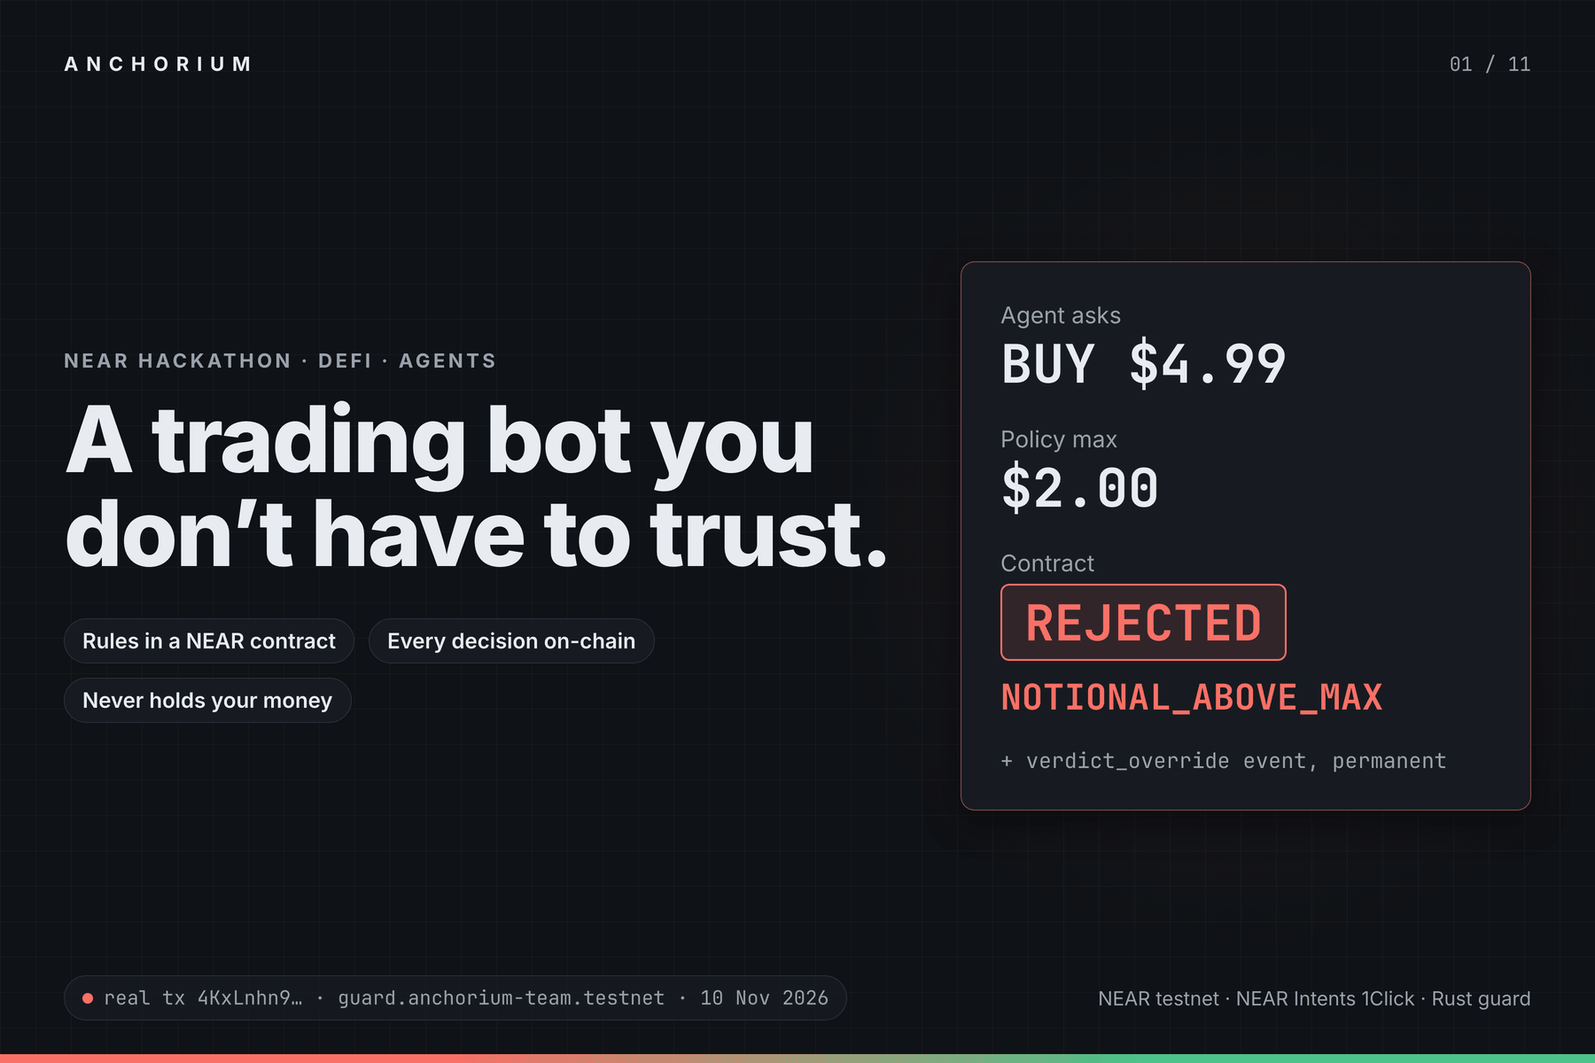
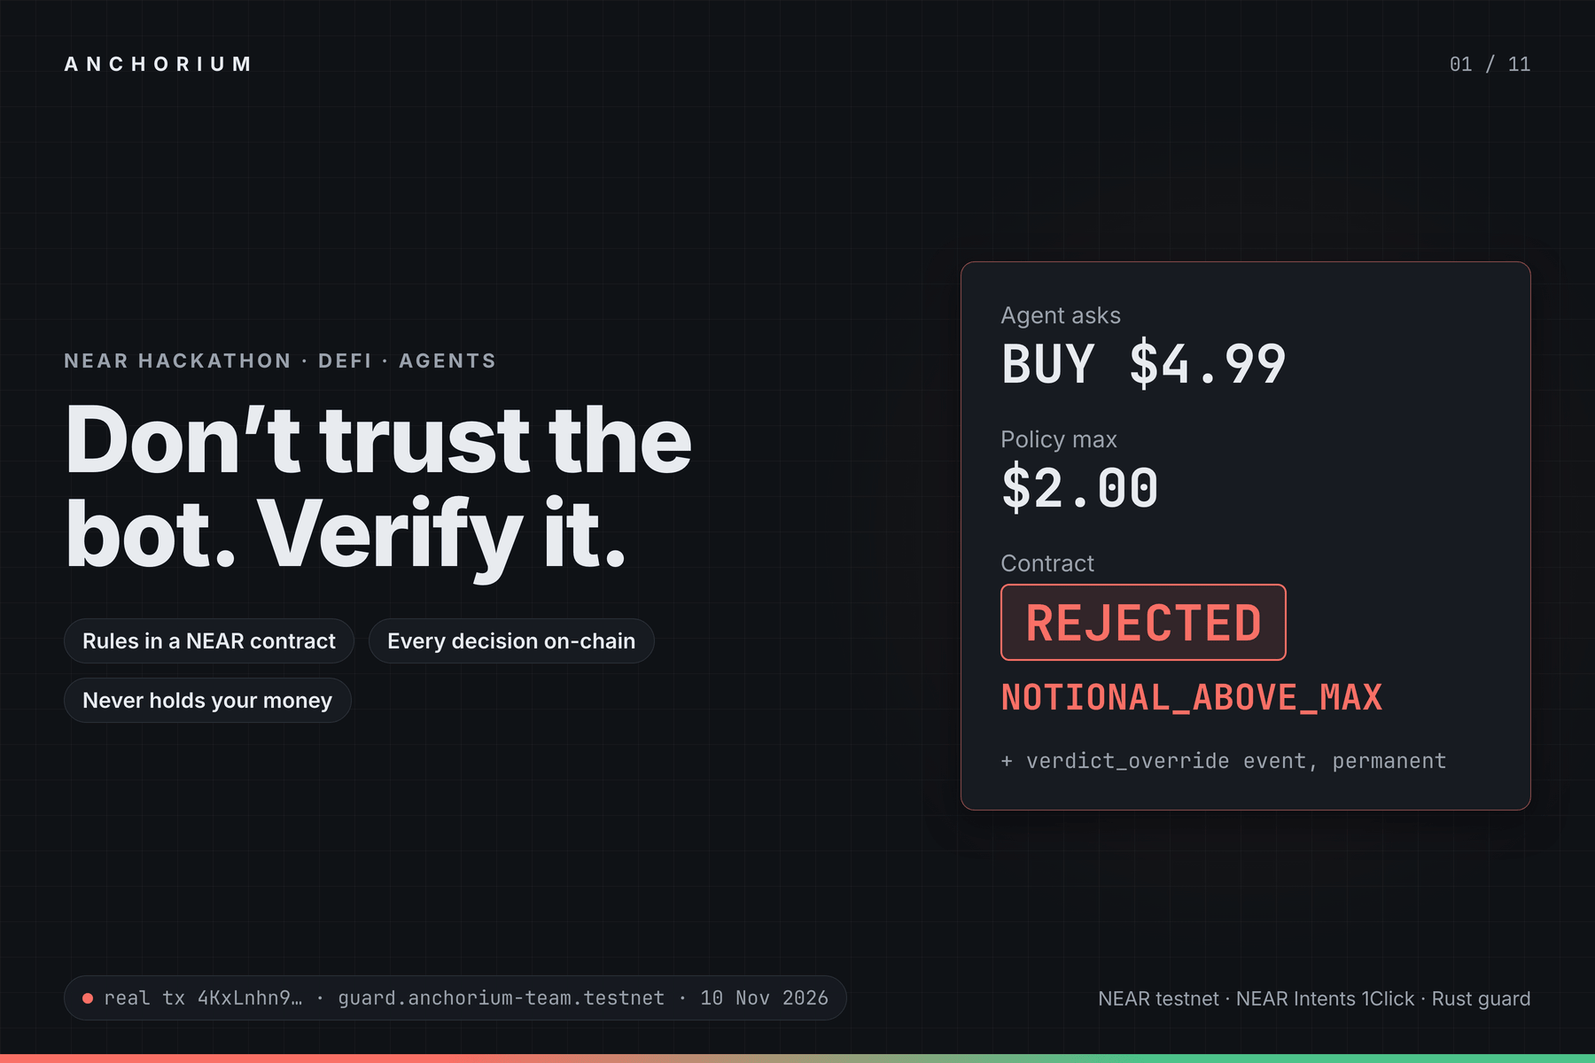
media: tagline "Don't trust the bot. Verify it.", new cold open, chapter cards and cross-fades
Tagline on the title and end cards, gallery 01, youtube.md, x_post.md and form.md (idea 1997/2000 chars).
The cold open is a hook card filled from the real tx 4KxLnhn9 and the on-chain policy, followed by the raw
make demo line and the RPC log. Full cut 2:49, X cut 0:57.

Changed region(s): [[0.0311, 0.37, 0.56, 0.555]]

diff --git a/submission/media/templates/v_hook.html b/submission/media/templates/v_hook.html
@@ -1,0 +1,37 @@
+<!doctype html>
+<!-- Cold open hook (6 s). Every value comes from the real tx (filled by web/record_cards.py from the RPC read):
+     {{SIDE}} {{ASK}} {{ALLOWED}} {{CAP}} {{REASON}} {{TX}} {{WHEN}}. Frame 1 already shows the red verdict. -->
+<html><head><meta charset="utf-8"><link rel="stylesheet" href="video.css">
+<style>
+  @keyframes stamp { from { transform: scale(1.22) rotate(-4deg); } 60% { transform: scale(.97) rotate(0); } to { transform: scale(1) rotate(0); } }
+  @keyframes pulse { 0%, 100% { box-shadow: 0 0 0 0 rgba(249,112,102,.0); } 50% { box-shadow: 0 0 0 14px rgba(249,112,102,.18); } }
+  .stamp { display: inline-block; animation: stamp 520ms cubic-bezier(.2,.8,.2,1) both, pulse 1.6s 0.6s ease-in-out 3; }
+  .row2 { display: flex; justify-content: space-between; align-items: baseline; gap: 24px; }
+  .k { font-size: 30px; color: var(--muted); }
+  .v { font-family: var(--mono); font-size: 62px; font-weight: 800; }
+</style></head>
+<body>
+  <div class="grid-bg"></div>
+  <div class="glow bad" style="left:1440px;top:560px"></div>
+  <header><div class="word">ANCHORIUM</div><div class="num">SIMULATED COMPROMISED AGENT · NEAR TESTNET</div></header>
+  <main style="flex-direction:row;align-items:center;gap:72px">
+    <div class="col" style="flex:1.15">
+      <div class="headline" style="font-size:112px">The bot tried to cheat.</div>
+      <div class="headline in" style="font-size:112px;animation-delay:1.1s">The contract said <span class="bad">no.</span></div>
+      <div class="sub in" style="font-size:40px;margin-top:30px;animation-delay:2.2s">On-chain. Permanent. Anyone can check.</div>
+    </div>
+    <div class="panel col" style="flex:.85;padding:48px 52px;gap:30px;border:2px solid color-mix(in srgb,var(--bad) 55%,var(--line))">
+      <div class="row2"><span class="k">Agent asks</span><span class="v">{{SIDE}} {{ASK}}</span></div>
+      <div class="row2"><span class="k">Agent claims</span><span class="v warn" style="font-size:44px">allowed: {{ALLOWED}}</span></div>
+      <div class="row2"><span class="k">Policy max</span><span class="v">{{CAP}}</span></div>
+      <div style="border-top:1px solid var(--line);padding-top:30px">
+        <div class="k">Contract verdict</div>
+        <div style="margin-top:14px"><span class="pill bad stamp" style="font-size:76px">REJECTED</span></div>
+        <div class="mono bad" style="font-size:42px;font-weight:800;margin-top:16px">{{REASON}}</div>
+      </div>
+    </div>
+  </main>
+  <footer class="fade" style="animation-delay:3.2s"><div class="chip"><i class="bad"></i>real tx {{TX}} · guard.anchorium-team.testnet · {{WHEN}}</div>
+    <div class="tags">verdict_override event, on-chain</div></footer>
+  <div class="rail bad-ok"></div>
+</body></html>

diff --git a/submission/media/templates/v_title.html b/submission/media/templates/v_title.html
@@ -6,7 +6,7 @@
   <header><div class="word">ANCHORIUM</div><div class="num">BUILT AT NEAR HACKATHON</div></header>
   <main style="justify-content:center;align-items:center;text-align:center">
     <div class="headline xl in" style="font-size:168px;animation-delay:.2s">Anchorium</div>
-    <div class="sub in" style="font-size:44px;animation-delay:.9s">A trading bot you don’t have to trust.</div>
+    <div class="sub in" style="font-size:44px;animation-delay:.9s">Don’t trust the bot. Verify it.</div>
     <div class="row" style="margin-top:90px;gap:28px">
       <div class="panel in" style="width:520px;padding:38px;text-align:left;animation-delay:4.2s"><div class="kicker">Problem 1</div>
         <div style="font-size:40px;font-weight:700;margin-top:12px"><span class="bad">✕</span> Bots hold your keys</div></div>

diff --git a/submission/media/templates/v_chapter.html b/submission/media/templates/v_chapter.html
@@ -1,0 +1,17 @@
+<!doctype html>
+<!-- Chapter card (1.8 s): ?k=<kicker>&t=<title>&r=<rail class>. Graphic only. -->
+<html><head><meta charset="utf-8"><link rel="stylesheet" href="video.css"></head>
+<body>
+  <div class="grid-bg"></div>
+  <main style="justify-content:center;align-items:flex-start">
+    <div class="kicker in" id="k" style="font-size:30px"></div>
+    <div class="headline in" id="t" style="font-size:136px;margin-top:18px;animation-delay:.15s"></div>
+  </main>
+  <div class="rail" id="r"></div>
+  <script>
+    const q = new URLSearchParams(location.search);
+    document.getElementById('k').textContent = q.get('k') || '';
+    document.getElementById('t').textContent = q.get('t') || '';
+    document.getElementById('r').classList.add(q.get('r') || 'ok');
+  </script>
+</body></html>

diff --git a/submission/media/templates/v_end.html b/submission/media/templates/v_end.html
@@ -5,7 +5,7 @@
   <div class="grid-bg"></div>
   <main style="justify-content:center;align-items:center;text-align:center">
     <div class="headline in" style="font-size:168px;animation-delay:.2s">Anchorium</div>
-    <div class="sub in" style="font-size:46px;animation-delay:.8s">A trading bot you don’t have to trust.</div>
+    <div class="sub in" style="font-size:46px;animation-delay:.8s">Don’t trust the bot. Verify it.</div>
     <div class="col fade" style="margin-top:80px;gap:20px;animation-delay:1.6s">
       <div class="mono" style="font-size:40px;font-weight:700">github.com/Adesh2204/anchorium-near</div>
       <div class="mono blue" style="font-size:40px;font-weight:700">guard.anchorium-team.testnet</div></div>

diff --git a/submission/media/templates/video.css b/submission/media/templates/video.css
@@ -2,7 +2,7 @@
 @import url("gallery.css");
 html, body { width: 1920px; height: 1080px; }
 main { left: 96px; right: 96px; top: 150px; bottom: 120px; }
-header { left: 96px; right: 96px; }
+header, footer { left: 96px; right: 96px; }
 .rail { height: 10px; transform-origin: left center; animation: rail-draw 900ms cubic-bezier(.2,.7,.2,1) both; }
 @keyframes rail-draw { from { transform: scaleX(0); } to { transform: scaleX(1); } }
 @keyframes rise { from { opacity: 0; transform: translateY(26px); } to { opacity: 1; transform: none; } }

diff --git a/submission/media/web/assemble.py b/submission/media/web/assemble.py
@@ -116,17 +116,19 @@ def build_segment(s: Seg, page) -> Path:
 
 MEDIA_GUARD = 'guard.anchorium-media-19428.testnet'
 SEGMENTS = [
-    # 1 cold open (starts on the red verdict: YouTube may use frame 1 as the thumbnail)
-    Seg('s1a_cold', 'still', '01_cold_open_end.png', 4.5, label='make demo · demo.anchorium-team.testnet (keyless)',
-        dot='bad', boxes=[(770, 624, 280, 38, 'bad', 0)], zoom=(1.5, 1.8, (700, 645)),
-        caps=[(0, 4.5, 'A simulated compromised agent asks for $4.99, 2.5x its $2.00 cap, and claims it is allowed.')]),
-    Seg('s1b_overruled', 'still', 'gallery/04_overruled.png', 6.5, fit='still32', dot='bad',
+    # 1 cold open: the hook card (frame 1 = the red verdict, filled from the real tx), then the raw proof
+    Seg('s0_hook', 'card', 'v_hook.mp4', 6.0),
+    Seg('s1a_cold', 'still', '01_cold_open_end.png', 3.5, label='make demo · demo.anchorium-team.testnet (keyless)',
+        dot='bad', boxes=[(770, 624, 280, 38, 'bad', 0)], zoom=(1.45, 1.75, (700, 645)),
+        caps=[(0, 3.5, 'The real output: check_trade on the NEAR testnet guard.')]),
+    Seg('s1b_overruled', 'still', 'gallery/04_overruled.png', 4.5, fit='still32', dot='bad',
         label='NEAR testnet RPC · real tx 4KxLnhn9… · 10 Nov 2026', zoom=(1.0, 1.25, (900, 860)),
-        caps=[(0, 6.5, 'The NEAR contract says no, and journals it on-chain with a verdict_override event.')]),
+        caps=[(0, 4.5, 'The real transaction: rejected, and flagged with a verdict_override event.')]),
     # 2 problem, 3 how it works
     Seg('s2_title', 'card', 'v_title.mp4', 15.0),
     Seg('s3_arch', 'card', 'v_arch.mp4', 20.0),
     # 4 a full cycle on-chain (fresh media guard)
+    Seg('c_cycle', 'card', 'ch_cycle.mp4', 1.8),
     Seg('s4a_cycle', 'clip', '04_cycle.mp4', 16.4, start=2.2, speed=2.0, badge='⏩ 2×', dot='blue',
         label=f'make demo-onchain · fresh guard {MEDIA_GUARD}',
         caps=[(0, 6, 'A brand-new guard deployed for this video. The agent must ask it before every trade.'),
@@ -140,6 +142,7 @@ SEGMENTS = [
         caps=[(0, 7, 'The dashboard reads every decision straight from the contract.'),
               (7, 14, 'Signal, guard verdict, quote, where the funds are, and the outcome.')]),
     # 5 safety
+    Seg('c_safety', 'card', 'ch_safety.mp4', 1.8),
     Seg('s5a_keys', 'clip', '05a_keys.mp4', 6.5, start=0.0, speed=2.0, badge='⏩ 2×', dot='ok',
         label='keyless RPC · view_access_key_list agent.anchorium-team.testnet',
         caps=[(0, 6.5, "The bot's only key: a function-call key for one contract and two journal methods.")]),
@@ -159,11 +162,13 @@ SEGMENTS = [
         boxes=[(92, 100, 1110, 292, 'blue', 0), (40, 508, 1350, 36, 'ok', 0.3)], zoom=(1.1, 1.25, (720, 320)),
         caps=[(0, 3, 'Proven by a sandbox test on a local NEAR node.')]),
     # 6 honest money
+    Seg('c_money', 'card', 'ch_money.mp4', 1.8),
     Seg('s6_money', 'still', 'gallery/09_honest_money.png', 14.0, fit='still32', dot='warn',
         label='PAPER · real 1Click quotes, simulated fill', zoom=(1.0, 1.12, (900, 640)),
         caps=[(0, 7, 'Every fee, the gas and a 31.2% tax reserve are counted before anything is called a profit.'),
               (7, 14, 'Wins and losses are both shown. These are paper trades, and they are labelled paper.')]),
     # 7 verify it yourself (fresh clone)
+    Seg('c_verify', 'card', 'ch_verify.mp4', 1.8),
     Seg('s7a_clone', 'clip', '07_verify.mp4', 13.75, start=0.0, speed=4.0, badge='⏩ 4×', dot='ok',
         label='fresh git clone from GitHub · no keys, no funds',
         caps=[(0, 13.75, "Don't trust us either: clone it and run two commands. No keys, no funds.")]),
@@ -176,29 +181,41 @@ SEGMENTS = [
     # 8 end card
     Seg('s8_end', 'card', 'v_end.mp4', 10.0),
 ]
-CUT_60 = ['s1a_cold', 's1b_overruled', 's3_arch_12', 's4a_cycle', 's4b_cycle_hold', 's8_end']
+CUT_60 = ['s0_hook', 's1a_cold', 's1b_overruled', 's3_arch_12', 's4a_cycle', 's4b_cycle_hold', 's8_end']
+XFADE = 0.3  # cross-fade between every two segments
 
 
-def concat(names: list[str], out: Path) -> float:
-    lst = SEG / f'{out.stem}.txt'
-    lst.write_text(''.join(f"file '{SEG / n}.mp4'\n" for n in names))
-    ff('-f', 'concat', '-safe', '0', '-i', str(lst), '-f', 'lavfi', '-i', 'anullsrc=r=48000:cl=stereo',
-       '-map', '0:v', '-map', '1:a', '-c:v', 'libx264', '-preset', 'veryfast', '-crf', '20', '-pix_fmt', 'yuv420p',
-       '-r', str(FPS), '-c:a', 'aac', '-b:a', '192k', '-shortest', '-movflags', '+faststart', str(out))
-    return float(subprocess.run(['ffprobe', '-v', 'error', '-show_entries', 'format=duration', '-of', 'csv=p=0', str(out)],
-                                capture_output=True, text=True).stdout)
+def probe(path: Path) -> float:
+    return float(subprocess.run(['ffprobe', '-v', 'error', '-show_entries', 'format=duration', '-of', 'csv=p=0',
+                                 str(path)], capture_output=True, text=True).stdout)
 
 
-def srt(segs: list[Seg], out: Path) -> None:
+def concat(names: list[str], out: Path) -> tuple[float, list[float]]:
+    """Joins the segments with XFADE-second cross-fades; returns the duration and each segment's start time."""
+    files = [SEG / f'{n}.mp4' for n in names]
+    lens = [probe(f) for f in files]
+    starts, chain, last, acc = [0.0], [], '0:v', lens[0]
+    for k in range(1, len(files)):
+        off = acc - XFADE
+        starts.append(off)
+        chain.append(f'[{last}][{k}:v]xfade=transition=fade:duration={XFADE}:offset={off:.3f}[x{k}]')
+        last, acc = f'x{k}', off + lens[k]
+    args = [a for f in files for a in ('-i', str(f))]
+    ff(*args, '-f', 'lavfi', '-i', 'anullsrc=r=48000:cl=stereo', '-filter_complex', ';'.join(chain) + f';[{last}]format=yuv420p[v]',
+       '-map', '[v]', '-map', f'{len(files)}:a', '-c:v', 'libx264', '-preset', 'veryfast', '-crf', '20', '-r', str(FPS),
+       '-c:a', 'aac', '-b:a', '192k', '-shortest', '-movflags', '+faststart', str(out))
+    return probe(out), starts
+
+
+def srt(segs: list[Seg], starts: list[float], out: Path) -> None:
     def ts(t: float) -> str:
         ms = int(round(t * 1000))
         return f'{ms // 3600000:02d}:{ms // 60000 % 60:02d}:{ms // 1000 % 60:02d},{ms % 1000:03d}'
-    lines, t, n = [], 0.0, 1
-    for s in segs:
+    lines, n = [], 1
+    for s, t in zip(segs, starts):
         for t0, t1, text in s.caps:
             lines.append(f'{n}\n{ts(t + t0)} --> {ts(t + t1)}\n{text}\n')
             n += 1
-        t += s.dur
     out.write_text('\n'.join(lines))
 
 
@@ -215,8 +232,9 @@ if __name__ == '__main__':
             print(f'segment {s.name}: {s.dur:.2f} s', flush=True)
         b.close()
     ff('-i', str(SEG / 's3_arch.mp4'), '-t', '12', '-c', 'copy', str(SEG / 's3_arch_12.mp4'))
-    full = concat([s.name for s in SEGMENTS], OUT / 'anchorium_demo_full.mp4')
-    short = concat(CUT_60, OUT / 'anchorium_demo_60s.mp4')
-    srt(SEGMENTS, OUT / 'captions.srt')
+    full, starts = concat([s.name for s in SEGMENTS], OUT / 'anchorium_demo_full.mp4')
+    short, _ = concat(CUT_60, OUT / 'anchorium_demo_60s.mp4')
+    srt(SEGMENTS, starts, OUT / 'captions.srt')
+    (OUT / 'chapters.txt').write_text(''.join(f'{int(t // 60)}:{int(t % 60):02d} {s.name}\n' for s, t in zip(SEGMENTS, starts)))
     print(f'full: {full:.2f} s · 60s cut: {short:.2f} s')
     assert full <= 180 and short <= 60, 'length limit exceeded'

diff --git a/submission/media/web/record_cards.py b/submission/media/web/record_cards.py
@@ -1,7 +1,7 @@
 """Records the animated video cards and the dashboard scroll with Playwright (1920x1080), then converts each to a
 30 fps H.264 clip in submission/media/raw/clips/. Run from the repo root with the media venv:
 
-    submission/media/.venv/bin/python submission/media/web/record_cards.py [v_title v_arch v_end dashboard]
+    submission/media/.venv/bin/python submission/media/web/record_cards.py [v_hook v_title v_arch v_end ch_* dashboard]
 
 The dashboard scene needs a dashboard serving on :8010 (`.venv/bin/python -m uvicorn dashboard.app:app --port 8010`).
 """
@@ -22,7 +22,29 @@ RAW = MEDIA / 'raw'
 CLIPS = RAW / 'clips'
 BUILD = RAW / 'build'
 SIZE = {'width': 1920, 'height': 1080}
-CARDS = {'v_title': 15.5, 'v_arch': 20.5, 'v_end': 10.5}
+CARDS = {'v_hook': 6.5, 'v_title': 15.5, 'v_arch': 20.5, 'v_end': 10.5}
+CHAPTERS = {'ch_cycle': ('Live on NEAR testnet', 'A full cycle, on-chain.', 'ok'),
+            'ch_safety': ('Safety lives in the contract', 'Three safety proofs.', 'bad'),
+            'ch_money': ('Paper trades, labelled paper', 'Honest money.', 'warn'),
+            'ch_verify': ('No keys. No funds.', 'Verify it yourself.', 'ok')}
+CHAPTER_DUR = 1.8
+
+
+def hook_html() -> str:
+    """The hook card, filled only from the real tx 4KxLnhn9 (RPC read) and the on-chain policy (make -s status)."""
+    sys.path.insert(0, str(Path(__file__).parent))
+    import render as R  # noqa: PLC0415
+    t, args, h, at = R.overruled(False)
+    pol = R.status(False)['policy']
+    reason = next(R.json.loads(lg[11:])['data'][0]['contract_reason'] for lg in R.tx_logs(t) if '"verdict_override"' in lg)
+    fill = {'SIDE': args['side'], 'ASK': R.usd(args['notional_usd_cents']), 'ALLOWED': str(args['agent_allowed']).lower(),
+            'CAP': R.usd(pol['max_notional_per_trade_usd_cents']), 'REASON': reason, 'TX': R.short(h),
+            'WHEN': f'{at:%d %b %Y %H:%M} UTC'}
+    src = (TPL / 'v_hook.html').read_text()
+    for k, v in fill.items():
+        src = src.replace('{{' + k + '}}', R.E(v))
+    assert '{{' not in src
+    return src
 
 
 def to_mp4(webm: Path, out: Path, start: float, dur: float) -> None:
@@ -74,11 +96,20 @@ if __name__ == '__main__':
     BUILD.mkdir(parents=True, exist_ok=True)
     for f in ('gallery.css', 'video.css'):
         shutil.copy(TPL / f, BUILD / f)
-    targets = sys.argv[1:] or [*CARDS, 'dashboard']
+    targets = sys.argv[1:] or [*CARDS, *CHAPTERS, 'dashboard']
     with sync_playwright() as p:
         for t in targets:
             if t == 'dashboard':
                 record(p, 'dashboard', 'http://127.0.0.1:8010/', 15.9, dashboard)
+            elif t in CHAPTERS:
+                import urllib.parse  # noqa: PLC0415
+                shutil.copy(TPL / 'v_chapter.html', BUILD / 'v_chapter.html')
+                k, title, rail = CHAPTERS[t]
+                q = urllib.parse.urlencode({'k': k, 't': title, 'r': rail})
+                record(p, t, (BUILD / 'v_chapter.html').as_uri() + '?' + q, CHAPTER_DUR)
+            elif t == 'v_hook':
+                (BUILD / 'v_hook.html').write_text(hook_html())
+                record(p, t, (BUILD / 'v_hook.html').as_uri(), CARDS[t])
             else:
                 shutil.copy(TPL / f'{t}.html', BUILD / f'{t}.html')
                 record(p, t, (BUILD / f'{t}.html').as_uri(), CARDS[t])

diff --git a/submission/media/web/render.py b/submission/media/web/render.py
@@ -240,7 +240,7 @@ def g01(rc: bool) -> None:
     <div class="row" style="flex:1;align-items:center;gap:56px">
       <div class="col" style="width:calc(7 * var(--col) + 6 * 24px)">
         <div class="kicker">NEAR HACKATHON · DEFI · AGENTS</div>
-        <div class="headline xl" style="margin-top:22px">A trading bot you don’t have to trust.</div>
+        <div class="headline xl" style="margin-top:22px">Don’t trust the bot. Verify it.</div>
         <div class="row b" style="margin-top:44px;flex-wrap:wrap;gap:16px">
           <span class="tag">Rules in a NEAR contract</span><span class="tag">Every decision on-chain</span>
           <span class="tag">Never holds your money</span></div>

diff --git a/submission/media/SHOTLIST.md b/submission/media/SHOTLIST.md
@@ -60,7 +60,7 @@ Brief: `submission/MEDIA_PROMPT.md` (updated version: 8 shots, 11 gallery images
 
 | # | File | Headline | Real source | Rail |
 |---|---|---|---|---|
-| 01 | `01_cover.png` | A trading bot you don't have to trust | The `NOTIONAL_ABOVE_MAX` line from `make demo` (2026-11-12) | red → green |
+| 01 | `01_cover.png` | Don't trust the bot. Verify it. | The `NOTIONAL_ABOVE_MAX` line from `make demo` (2026-11-12) | red → green |
 | 02 | `02_problem.png` | Today you just trust the bot | Graphic | muted |
 | 03 | `03_architecture.png` | The rules live on-chain, not in the bot | Graphic (still of shot 3) | green |
 | 04 | `04_overruled.png` | The bot tried to cheat. The contract said no. | Dashboard card #2 + NearBlocks tx `4KxLnhn9…` | red |
@@ -158,3 +158,11 @@ was isolated again for shot 4 (media store `var/agent-demo-onchain.media-19428.s
 last frame with highlight boxes (green allowed, red blocked, amber paper, blue code); gallery stills 04 and 09 get a
 slow zoom. Copies at the repo root: `Anchorium_Demo_Video.mp4`, `Anchorium_Demo_Video_60s.mp4` (untracked).
 `vo_script.txt` is kept for a future voiced version but is not used.
+
+### Revision 2026-11-12 evening (owner request)
+
+Tagline changed everywhere to "Don't trust the bot. Verify it." (title and end cards, gallery 01, youtube.md, x_post.md,
+form.md idea = 1997/2000 characters). New cold open: `templates/v_hook.html`, every value filled from the real tx
+4KxLnhn9 and the on-chain policy (BUY $4.99, allowed: true, $2.00 cap, NOTIONAL_ABOVE_MAX, 10 Nov 2026 16:27 UTC),
+then the raw `make demo` line and the RPC log as proof. Chapter cards (`templates/v_chapter.html`) and 0.3 s
+cross-fades. Full cut 2:49, X cut 0:57. `submission/MEDIA_PROMPT.md` (the owner's brief) is left as written.

diff --git a/submission/media/youtube.md b/submission/media/youtube.md
@@ -1,14 +1,16 @@
 # YouTube upload (humans upload; never automated)
 
-**Title:** Anchorium: the trading bot that can't break its own rules | NEAR HACKATHON
+**Title:** Anchorium: Don't trust the bot. Verify it. | NEAR HACKATHON
 
 **Visibility:** public or unlisted, no password.
 
 **Description:**
 
+Don't trust the bot. Verify it.
+
 Anchorium is an autonomous trading agent whose risk limits live in a NEAR smart contract. Before any trade it asks
 the contract, journals the decision on-chain, and settles spot swaps through NEAR Intents (1Click) into the user's
-own account. In this video a simulated compromised agent asks for 2.5x its limit and the contract says no, on-chain.
+own account. In this silent, captioned video a simulated compromised agent asks for 2.5x its limit and the contract says no, on-chain.
 
 Everything shown is a real run: testnet guard contract, real 1Click quotes, real transactions. Money scenes are
 PAPER (real quotes, simulated fill); no live mainnet trade had run at recording time.
@@ -23,10 +25,10 @@ Built at NEAR HACKATHON by Adesh & Parth. AI-assisted code: written with Claude 
 
 ```
 0:00 The bot gets caught
-0:12 The problem
+0:13 The problem
 0:27 How it works
 0:47 A full cycle on-chain
-1:40 Safety
-2:05 Honest money
-2:22 Verify it yourself
+1:24 Safety
+1:58 Honest money
+2:13 Verify it yourself
 ```

diff --git a/submission/x_post.md b/submission/x_post.md
@@ -5,7 +5,7 @@ Attach the 90-second screen recording (see `video_script.md`). After posting, pu
 
 ## Main post
 
-> You have to trust a trading bot to follow its own risk rules. We moved the rules into a NEAR contract.
+> Don't trust the bot. Verify it. We moved a trading bot's risk rules into a NEAR contract.
 >
 > Our agent asked for a $4.99 trade and claimed it was allowed. The guard contract said no (cap $2), recorded the
 > rejection on-chain and flagged the override.
@@ -14,10 +14,10 @@ Attach the 90-second screen recording (see `video_script.md`). After posting, pu
 >
 > [video]
 
-Length: 314 characters (counted with `len()`), no link. If the account cannot post more than 280
-characters, use the shorter version (257 characters):
+Length: 310 characters (counted with `len()`), no link. If the account cannot post more than 280
+characters, use the shorter version (229 characters):
 
-> Trading bots break their own risk rules and nobody sees it. We moved the rules into a NEAR contract: our agent
+> Don't trust the bot. Verify it. We moved the rules into a NEAR contract: our agent
 > asked for $4.99 and claimed "allowed". The contract said no (cap $2) and logged it on-chain.
 >
 > Built at NEAR HACKATHON @NEARProtocol #NEARHackathon

diff --git a/submission/form.md b/submission/form.md
@@ -13,14 +13,14 @@ submitting goes through https://nearhackathon.com/request-changes, never a secon
 | nearAddress | `TODO_HUMAN` (the payout account, lowercase, e.g. `yourname.near`) |
 | projectUrl | https://github.com/Adesh2204/anchorium-near |
 | demoUrl | `TODO_DEMO_URL` (the public X post) |
-| idea | below (1965 characters; the limit is 20-2000) |
+| idea | below (1997 characters; the limit is 20-2000) |
 | consent | ticked by the human after reading the contact notice |
 
 Leave the `website` field empty (it is a spam trap).
 
 ## idea
 
-Anchorium is an autonomous trading agent whose risk limits live in a NEAR smart contract instead of inside the bot.
+Don't trust the bot. Verify it. Anchorium is an autonomous trading agent whose risk limits live in a NEAR smart contract instead of inside the bot.
 
 Problem: you have to trust a trading bot to follow its own rules. When it breaks one, nobody sees it, and its track record is a screenshot.
 
